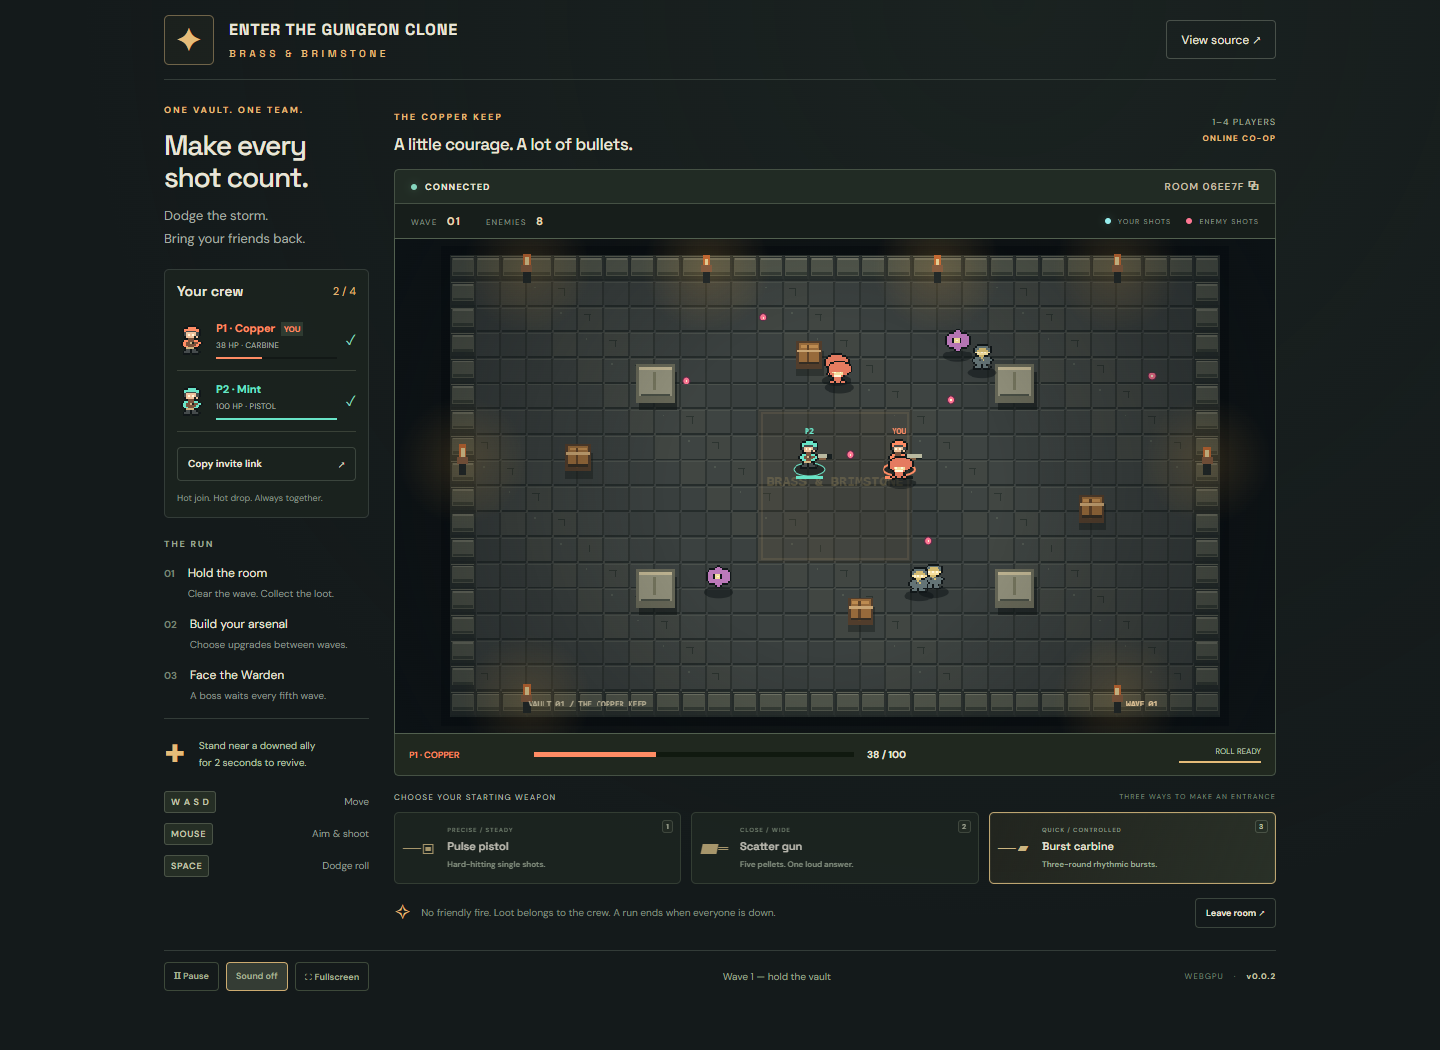
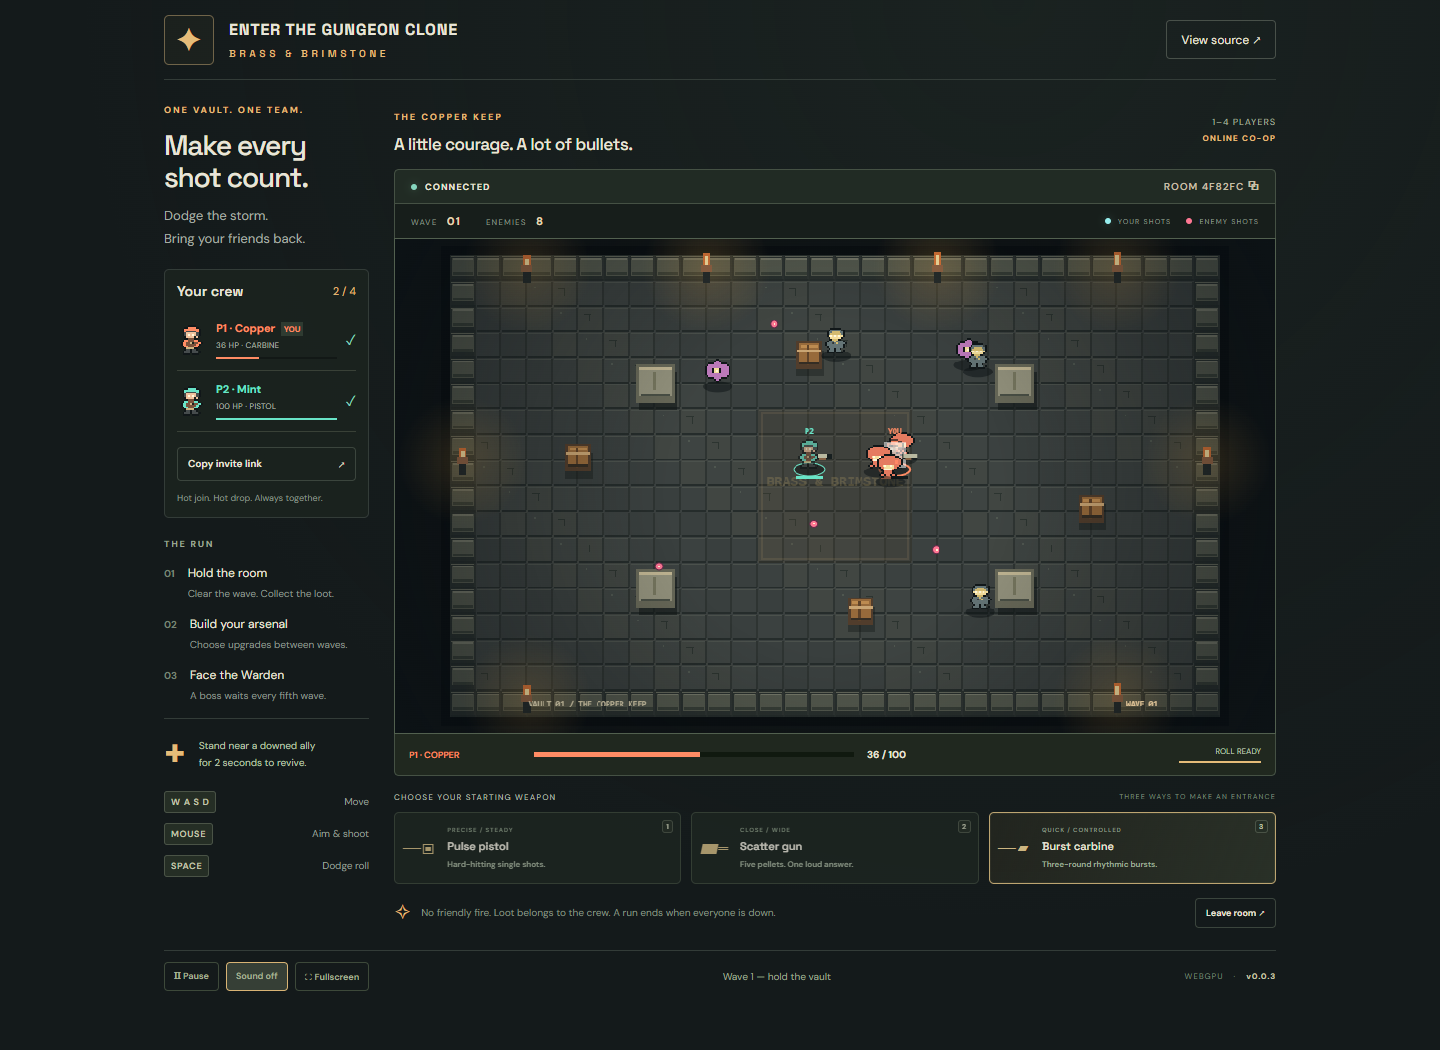
Record public multiplayer verification and finalize dungeon specification

diff --git a/project-name/documentation/template-delivery.md b/project-name/documentation/template-delivery.md
@@ -1,0 +1,14 @@
+# Template delivery record
+
+The game uses the requested template-generation flow with independent GitHub history, physical shared-library skills and the verified OpenSpec 1.13.1 workflow. Project source, public metadata, dependencies, controls, tests, README, screenshots, release and public demo are implemented and verified. See provenance.md and verification.md for exact evidence.
+
+Deliberate adaptations to the older template checklist:
+
+- GitHub template generation replaces its manual-copy/empty-repository instructions, as required by the invoked creation skill. GitHub's generated initial commit is named `Initial commit`; no history rewrite was performed to change capitalization.
+- `project-name/` remains the internal application directory to preserve the established layout and workflow paths; this is documented in the design and README. Product-facing placeholders are replaced.
+- React is replaced by plain JavaScript because the game needs the lightweight Babylon Lite renderer and direct input handling. Corner UI roles are preserved.
+- Repository-local OpenSpec skills are generated/refreshed with 1.13.1 and read directly; CLI doctor is healthy. Reopening the app solely to inspect autocomplete is an advisory UI step and was not needed to execute the verified workflow.
+- Release/deployment were explicitly authorized. Source-controlled version.txt and existing patch workflow are preserved. The release workflow now installs dependencies, tests and builds before bumping.
+- The original template checklist is retained unless the user requests cleanup; its cleanup preference was asked after delivery verification. No cleanup is required for the game to run.
+
+No unresolved gameplay or public deployment gate remains. Physical touch-device testing was unavailable; emulated simultaneous touch controls passed.

diff --git a/openspec/specs/gungeon-client/spec.md b/openspec/specs/gungeon-client/spec.md
@@ -1,0 +1,27 @@
+# Cooperative dungeon frontend
+
+## Purpose
+Provide a complete original landscape cooperative dungeon frontend, robust controls and lifecycle states, and verified public multiplayer delivery.
+
+## Requirements
+
+### Requirement: Landscape cooperative play
+The game SHALL present original top-down pixel artwork in a landscape arena and support 1–4 players creating/joining coded rooms, readiness and hot join/drop/reconnect.
+#### Scenario: Two browsers
+- **WHEN** two independent browsers join one code
+- **THEN** both see the same wave, actors and combat with smooth peer movement
+### Requirement: Complete controls and loop
+The frontend SHALL expose WASD movement, mouse aim, shooting, Space roll, concurrent touch controls, three weapons, upgrades, revival status, wave/enemy/health/cooldown HUD and leader restart after defeat.
+#### Scenario: Wave break and replay
+- **WHEN** a wave ends or the team falls
+- **THEN** an actionable upgrade break or restart state appears and renders the next shared state
+### Requirement: Recovery and original presentation
+The game SHALL release input on pause/blur/cancel, show actionable connection/GPU errors, and use original sprites, rooms, UI and sound with distinct projectile teams and hit feedback.
+#### Scenario: Local pause
+- **WHEN** one player pauses
+- **THEN** their input stops while the shared game continues
+### Requirement: Verified public delivery
+The README SHALL link the released playable demo and record setup, controls, sources, original prompt and hosting limits.
+#### Scenario: Released public game
+- **WHEN** the public URL is opened by two browsers
+- **THEN** assets load, displayed version matches release and shared gameplay is verified

diff --git a/project-name/documentation/verification.md b/project-name/documentation/verification.md
@@ -18,4 +18,8 @@ Screenshots: [desktop](screenshot01.png), [mobile](mobile.png), [boss](boss.png)
 
 ## Public frontend
 
-Pending frontend release/deployment and two-browser verification of the public URL. No claim of completed public delivery is made until this section records the released version, workflow and public browser result.
+Frontend [v0.0.3](https://github.com/SamuelAsherRivello/babylon-lite-enter-the-gungeon-clone/releases/tag/v0.0.3), commit `efc7102c1b5faa758424663d9e5157f54d01c069`, contains the tested implementation (`e7de8af`). [Release workflow 36727262087](https://github.com/SamuelAsherRivello/babylon-lite-enter-the-gungeon-clone/actions/runs/36727262087) and [Pages deployment 36727501148](https://github.com/SamuelAsherRivello/babylon-lite-enter-the-gungeon-clone/actions/runs/36727501148) both succeeded.
+
+The [public game](https://samuelasherrivello.github.io/babylon-lite-enter-the-gungeon-clone/) and its version.txt return HTTP 200, with version 0.0.3. `GAME_URL` was set to the public URL and all 3 browser tests passed in 34 seconds: actual two-client synchronized combat/hot join/drop/reconnect/pause/roll, concurrent mobile touch input, and team defeat/leader restart/fresh replay. Both clients used the deployed authoritative backend. Public screenshots refreshed the README's canonical desktop image, mobile image and defeat image. No page errors were observed.
+
+OpenSpec changes: frontend `add-gungeon-client` and server `add-gungeon-coop`; maintained specifications are synced before archiving. The frontend archive records completed delivery tasks and this evidence.

diff --git a/openspec/changes/archive/2026-09-30-add-gungeon-client/tasks.md b/openspec/changes/archive/2026-09-30-add-gungeon-client/tasks.md
@@ -5,5 +5,5 @@
 - [x] 1.3 Implement keyboard/mouse/concurrent touch input and interpolation; verify release and controls in browser tests.
 ## 2. Delivery
 - [x] 2.1 Complete README prompt, sources, screenshot and setup; run unit/browser checks and production build.
-- [ ] 2.2 Release and deploy to Pages; verify two public clients, assets, version and README demo link.
-- [ ] 2.3 Sync accepted specifications and verify maintained requirements match the delta; archive and local/remote alignment follow verified sync.
+- [x] 2.2 Release and deploy to Pages; verify two public clients, assets, version and README demo link.
+- [x] 2.3 Sync accepted specifications and verify maintained requirements match the delta; archive and local/remote alignment follow verified sync.

diff --git a/openspec/changes/archive/2026-09-30-add-gungeon-client/specs/gungeon-client/spec.md b/openspec/changes/archive/2026-09-30-add-gungeon-client/specs/gungeon-client/spec.md
@@ -1,3 +1,8 @@
+# Spec Delta
+
+## Purpose
+Provide a complete original landscape cooperative dungeon frontend, robust controls and lifecycle states, and verified public multiplayer delivery.
+
 ## ADDED Requirements
 ### Requirement: Landscape cooperative play
 The game SHALL present original top-down pixel artwork in a landscape arena and support 1–4 players creating/joining coded rooms, readiness and hot join/drop/reconnect.
